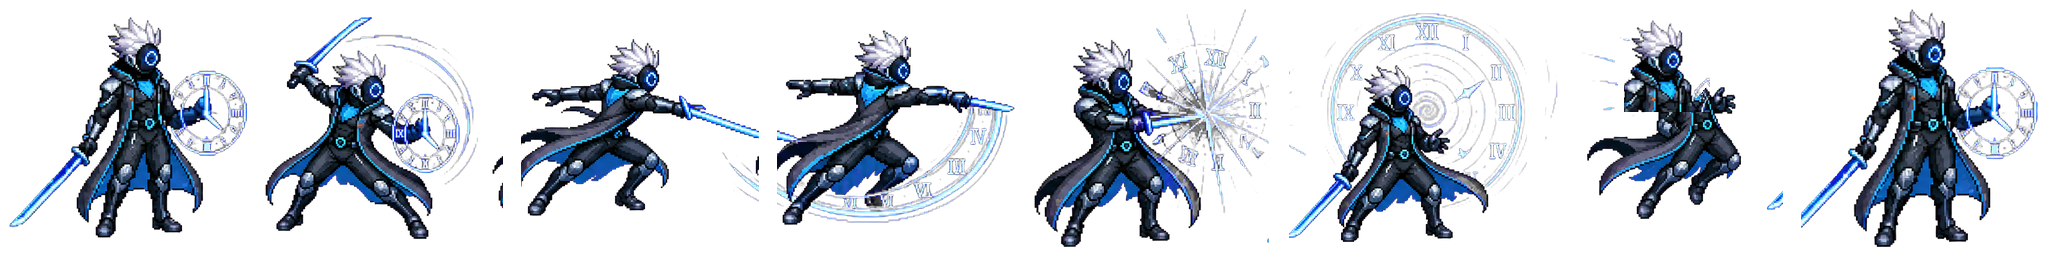
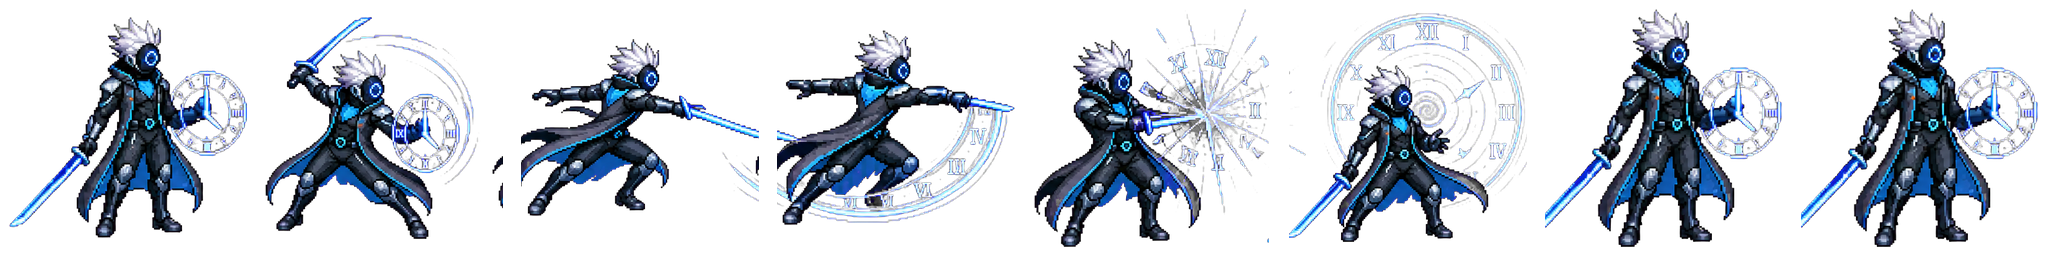
Remove compromised Chrona recovery pose

Changed region(s): [[0.75, 0.0625, 0.875, 0.9688]]

diff --git a/artifacts/cybergrid-strike-pre-evo/src/components/Game.tsx b/artifacts/cybergrid-strike-pre-evo/src/components/Game.tsx
@@ -3979,7 +3979,7 @@ export default function Game() {
       return;
     }
     const sequence = new Image();
-    sequence.src = `${import.meta.env.BASE_URL}skins/advanced-attack-sequences/${playerSkin}.png?v=4`;
+    sequence.src = `${import.meta.env.BASE_URL}skins/advanced-attack-sequences/${playerSkin}.png?v=5`;
     rivalAttackSequenceRef.current = sequence;
     return () => {
       if (rivalAttackSequenceRef.current === sequence) {
@@ -7760,8 +7760,14 @@ export default function Game() {
 
                 const sequence = rivalAttackSequenceRef.current;
                 if (sequence?.complete && sequence.naturalWidth > 0) {
-                  const framePosition = rivalAttackProgress * 7;
-                  const frameIndex = Math.min(6, Math.floor(framePosition));
+                  // Chrona's seventh authored cell reads as an involuntary body
+                  // reaction rather than controlled recovery. Skip it and blend
+                  // the temporal-resolution pose directly into ready stance.
+                  const frameOrder = playerSkinRef.current === 'chrono'
+                    ? [0, 1, 2, 3, 4, 5, 7]
+                    : [0, 1, 2, 3, 4, 5, 6, 7];
+                  const framePosition = rivalAttackProgress * (frameOrder.length - 1);
+                  const frameIndex = Math.min(frameOrder.length - 2, Math.floor(framePosition));
                   const frameBlend = smoothstep(framePosition - frameIndex);
                   const sourceSize = sequence.naturalHeight;
                   const drawSequenceFrame = (index: number, alpha: number) => {
@@ -7779,8 +7785,8 @@ export default function Game() {
                     );
                   };
                   sctx.save();
-                  drawSequenceFrame(frameIndex, 1 - frameBlend);
-                  drawSequenceFrame(frameIndex + 1, frameBlend);
+                  drawSequenceFrame(frameOrder[frameIndex], 1 - frameBlend);
+                  drawSequenceFrame(frameOrder[frameIndex + 1], frameBlend);
                   sctx.restore();
                 } else {
                   // Loading fallback only. The normal path above uses eight
